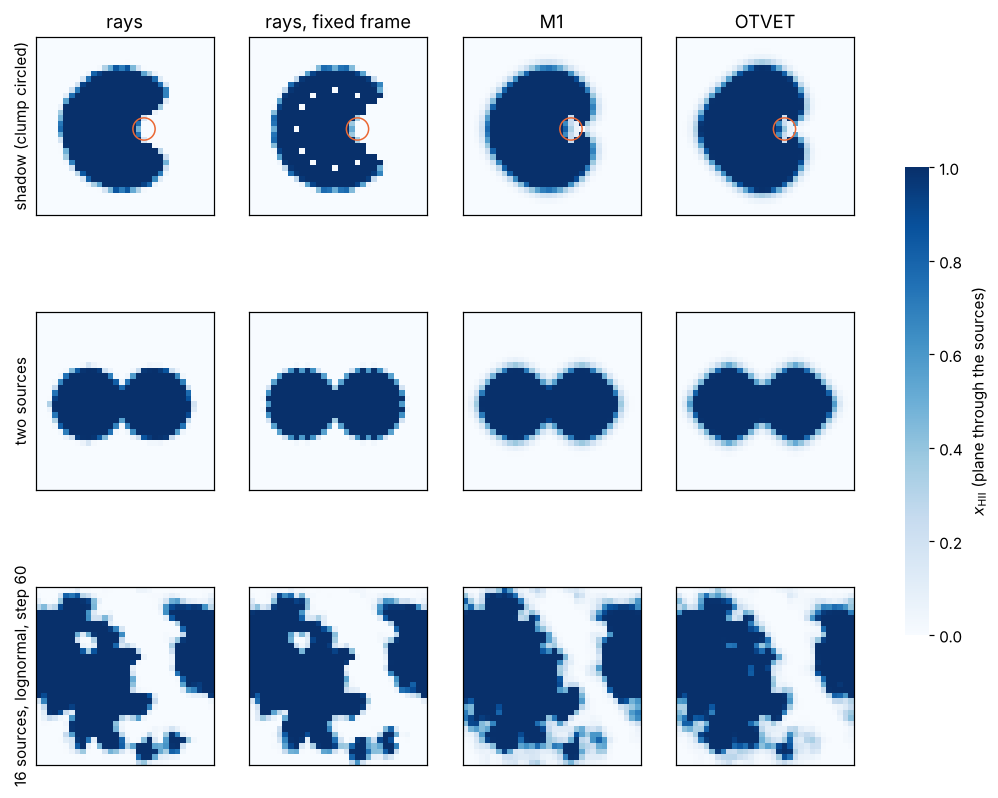
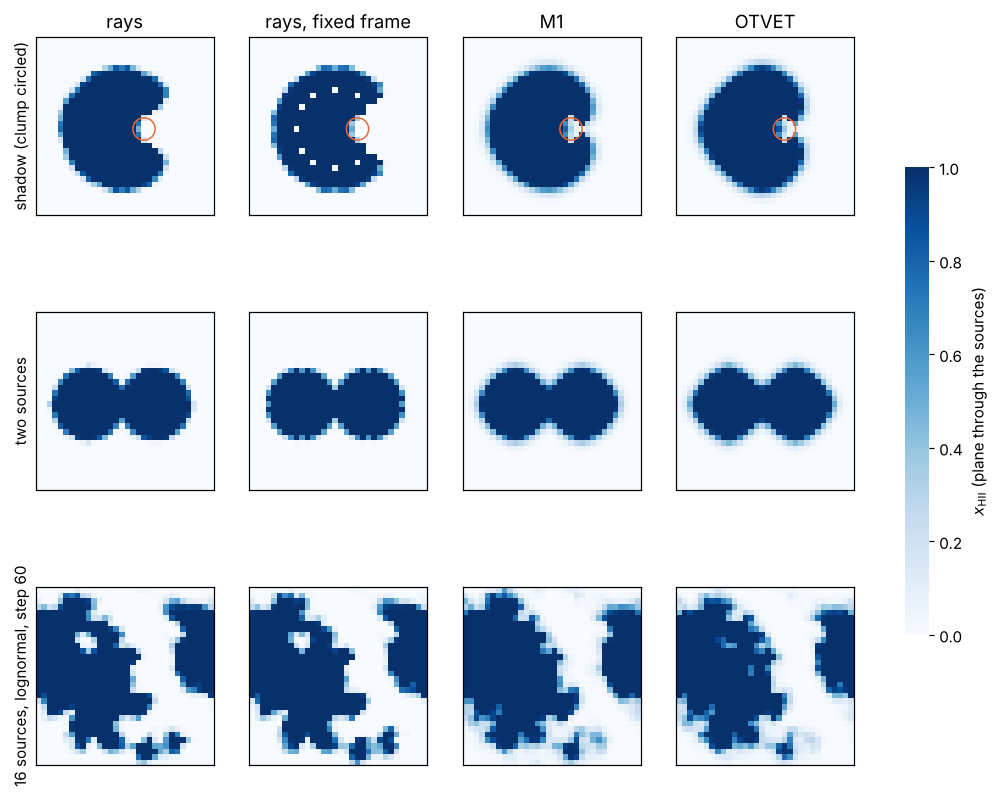
moment_inject = 1 the default (user decision); rt_moments §4 rerun with it
The moment RT now injects a substep's source and recombination photons
after the transport by default, as production already did. The tests that
set 1 explicitly now cover 0 (restart_smoke_m1_inject0, the AMReX cases
m1inj0 and m1recombinj0); make_production.py writes the key explicitly.
docs/rt_moments.md §4 rerun: the injection order is about half of the
moment fronts' early lead over the finite-c solution (+61% -> +36% at
c_hat t = 2 cells) and of their box excess over the rays (M1 16% -> 6%).

Claude-Session: https://claude.ai/code/session_01VFiZmTaqaTXFEYatZN1PCd

diff --git a/tools/production/make_production.py b/tools/production/make_production.py
@@ -133,8 +133,9 @@ def main():
                     help="M1/OTVET (rt_method set by tools/hyak/rt_methods_runs.sh; ignored by "
                          "the rays): 1 = source and recombination photons enter the moments "
                          "after the transport, so they are absorbed in their own cell first "
-                         "(moment_inject; default 1, docs/rt_moments.md); 0: before, the original "
-                         "order, which leaves dense source cells neutral")
+                         "(moment_inject; default 1, also the code's default since 2026-11-10, "
+                         "docs/rt_moments.md); 0: before, the first implementation, which "
+                         "leaves dense source cells neutral")
     ap.add_argument("--diag-dz", type=float, default=0.0,
                     help="on-the-fly E(k) of the gas velocity and the T-Delta histogram every dz "
                          "(diag_dz, Diag/; plane-parallel unsplit runs on the host grids; 0: off)")
@@ -376,8 +377,7 @@ def main():
             lines.append(f"recomb_rad_cell_onspot = {a.recomb_rad_cell_onspot:g}")
     elif a.recomb_rad and a.recomb_case == "B":
         sys.exit("--recomb-rad 1 needs --recomb-case A (case B already absorbs them on the spot)")
-    if a.moment_inject:
-        lines.append("moment_inject = 1")
+    lines.append(f"moment_inject = {a.moment_inject}")
     if a.ra_max > 0:
         lines.append(f"ra_max = {a.ra_max:g}")
     lines.append(f"redshift_per_distance = {a.redshift_per_distance}")

diff --git a/include/radray/config.hpp b/include/radray/config.hpp
@@ -291,15 +291,17 @@ struct Config {
   //   otvet_tensor: how the OTVET tensor is summed over the sources:
   //                0 = auto, 1 = direct sum, 2 = FFT convolution;
   //   moment_inject: when the source and recombination photons of an RT
-  //                substep enter the moments: 0 = before the transport
-  //                (default; a source cell's photons are mostly moved to its
-  //                neighbours before photo_cell absorbs anything), 1 = after
-  //                it, so they are absorbed in their own cell first, as the
-  //                rays' photons are (docs/rt_moments.md).
+  //                substep enter the moments: 1 = after the transport
+  //                (default since 2026-11-10, user decision), so they are
+  //                absorbed in their own cell first, as the rays' photons
+  //                are; 0 = before it (the first implementation: a source
+  //                cell's photons are mostly moved to its neighbours before
+  //                photo_cell absorbs anything, and dense source cells stay
+  //                neutral; docs/rt_moments.md section 5a).
   RTMethod rt_method = RTMethod::Rays;
   int moment_nsub = 4;
   int otvet_tensor = 0;
-  int moment_inject = 0;
+  int moment_inject = 1;
   // Alternative OTVET tensors (otvet_closure.hpp, docs/otvet_closure.md;
   // set_otvet_closure_param). New options, not in the original; the
   // defaults keep the thin minimum-image tensor:

diff --git a/tools/analysis/rt_methods.py b/tools/analysis/rt_methods.py
@@ -14,6 +14,8 @@ emission are the same, and the gaps between them leave grid-aligned holes in
 the fronts at large radius. The fixed frame is run as well ("rays, fixed
 frame") to show what the rotation changes; the moment methods have no rays
 and ignore the key.
+The moment methods run with the default moment_inject = 1 (the source
+photons are injected after the transport, docs/rt_moments.md section 5a).
 
   ifront   one source (Luv = 8e28) in the centre, 15 steps of da = 2e-4:
            the I-front radius from the ionised volume, against the finite-c

diff --git a/src/rt_moments.cpp b/src/rt_moments.cpp
@@ -120,7 +120,7 @@ std::string rt_method_summary(const Config& c) {
     if (c.rt_method == RTMethod::OTVET)
       s += std::string(", otvet_tensor = ") +
            (c.otvet_tensor == 0 ? "auto" : c.otvet_tensor == 1 ? "direct" : "fft");
-    if (c.moment_inject) s += ", moment_inject = 1";
+    if (!c.moment_inject) s += ", moment_inject = 0";
     const std::string cl = otvet_closure_summary(c);  // otvet_closure.hpp
     if (!cl.empty()) s += ", " + cl;
     s += ")";

diff --git a/docs/STATUS.md b/docs/STATUS.md
@@ -1,6 +1,6 @@
 # Project status
 
-*Last updated: 2026-11-10: the rays of the moment-RT comparison (`docs/rt_moments.md` §4) rerun with the frame rotation `ray_rotate = 3`, the numbers refreshed for B17 and P11, and why the moment fronts run ahead early (branch `claude/trusting-feynman-2w7i8q`, below). Before that, 2026-11-09: repository cleanup (reading guides at the top of the RT sources, comments in the under-documented files, `docs/REVIEW_GUIDE.md`, the CMake configure without FFTW fixed, the stray klone build logs untracked; branch `claude/kind-cerf-9y6xp2`, below). Before that, 2026-11-08: `otvet_background = ga01`, the isotropic background of Gnedin & Abel 2001 as a second moment field, implemented and validated at 256³: thin OTVET bit for bit before overlap, then it removes thin OTVET's P_Γ excess, but only by z ≈ 4.9, about 1 in z later than the split and the cone (`docs/otvet_background.md` §9, branch `otvet-background`, below). Before that, 2026-11-07: the design and the implementation. Before that, 2026-11-06: why the closures do not change the mean Γ_HI after overlap: the photon sink by density of the 512³ suite, the single-absorber test (M1 2×, the cone 1.4× the rays' recombinations in a resolved absorber) and the 256³ P11 on/off set (P11 a 10–25 % effect on the IGM for every method, the closure difference 2–3 %) (`docs/absorbers_closures.md`, branch `absorbers-wu21`, PRs #27 and #29, below). Also 2026-11-06: the τ_eff distribution over 50 Mpc/h in every run (against z, λ_mfp, raw and normalised to the mean flux) and 21cmFAST's excursion set against the RT methods, the paper's Figures 7 and 8 (`docs/taueff_21cmfast.md`, branch `taueff-21cmfast`, PR #28, below). Before that, 2026-11-02: the user's decisions on `pm_level_subcycle` (4 FFTs, no corrector until Z1) and the corrector diagnostic. Also 2026-10-31: the AMReX RT across levels rank-independent through a regrid that rechops a refined level (branch `claude/elegant-volta-wekhho`, on `stage-g-subcycle`, below). 2026-10-31: Stage G follow-up, the refined levels' gravity on their own timescale, `pm_level_subcycle` (branch `stage-g-subcycle`, `docs/stage_g.md` §6, below); the user's decision of rectangular zoom levels (`docs/PLAN.md`). Before that, 2026-10-29: the AMReX RT's checkpoints with a partial refined region made rank-independent and its restarts through an RT step bit-identical (the refined levels' ray order, `dr`, the uninitialised `TF`; checkpoint version 9; branch `claude/modest-mendel-8k29sb`, below); the user's zoom decisions (about 10 rays per fine cell; fine-level gravity on its own timescale, `docs/PLAN.md`). Also 2026-10-29: linear growth of DM and gas from MUSIC ICs against CAMB, and `recfast_table` (branch `music-linear-growth`, below). Also 2026-10-28: `photon_consume_dense` (P11) part of `legacy_physics = 0` (branch `photon-consume-legacy`, below). Also 2026-10-28: the plane-parallel turn-on step, `plane_turnon_cfl` (branch `plane-turnon-step`, below). Also 2026-10-29: rank 0 without the full grid copy under `amrex_state = 1` (branch `rank0-no-mirror`, below). Before that, 2026-10-29: the plane-parallel problems' floor 0.1 K (below); the preheating floor `T_min`/`z_floor` extended to the hydro (below); `photon_consume_dense = 1` confirmed for the plane-parallel problems; PR #9 merged; the runtime cosmology, z_init and the preheating floor (PR #8, branch `claude/vibrant-albattani-8xnpwa`, below) merged with `main`. Before that, 2026-10-27: the unsplit hydro's over-cooling of the cold IGM found and fixed behind `dual_e_self` (U7, branch `claude/beautiful-dirac-8omh78`, below); the plane-parallel RT-domain mode (rays and the sweep transport), its tests, the T4 step caps and the C1 ladder scripts (branch `claude/eager-sagan-h6a0tu`, below). Before that, 2026-10-26: `thermal_init = recfast` and `thermal_floor` (below); the thermal history before heating checked against RECFAST (T1, below); X-ray preheating behind `xray_heating` (branch `xray-preheating`, below); `gammaHI_avg` for the moment RT on `rt_backend = amrex` (branch `gamma-avg-amrex`, below); the Fortran split for a public repository (below). Before that, 2026-10-22/24: Stage G, the level Poisson solve on the hierarchy, `pm_level_solve` (branch `claude/modest-mendel-8k29sb`, `docs/stage_g.md`, below; the klone profile 2026-10-24). Before that, 2026-10-23: zoom ICs from MUSIC, thread D (branch `zoom-ics`, below); MUSIC installed on klone (below). Before that, 2026-10-22: the uniform 512³ suite of every RT method run and reported (`docs/rt_suite_512.md`; the Sheth–Tormen sources, f6 = 0.11, the continuous ĉ schedule `c_reduced_schedule_interp`; branch `rt-suite-512`, below). Before that, 2026-10-22: the refined 512³ run against its control (branch `amr512-analysis`, below); the zoom-in turbulence plan and a PR audit (below). Before that, 2026-10-18: the substep-averaged Γ_HI (`gammaHI_avg`), the launch script of the uniform 512³ suite (`tools/hyak/rt_suite512.sh`) and the suite's decisions; before that the assessment and plan for the unified RT-methods suite (`docs/PLAN.md`, "Unified RT-methods suite", with the thread prompts; branch `claude/sleepy-feynman-dx6ic2`, below). Before that, 2026-10-17: ĉ by ionisation state, `c_reduced_schedule` (branch `c-schedule`, below); a falling escape fraction (branch `fesc-evolution`, PR #45, below). Before that, 2026-10-14 (evening): Stage F3, the 8 sources of `uniform_8src` with one and two refined levels, three fixes of the RT across levels (branch `stage-f3-8src`, below). Before that, 2026-10-15: Stage F3, the RT across refinement levels (branch `stage-f3`, below). Before that, 2026-10-14: Stage F decisions, B17 under `legacy_physics = 0`, Stage F1 (the gas hierarchy) and F2 (refined hydro validated, `cool_suppress_overdensity`, the star-formation sink), `srun --mpi=pmix` (branch `stage-f-decisions`, PR #40, below). Also 2026-10-13: Stage E2 on klone, the PM backend validated and scaled (PR #38, below). Before that, 2026-10-13: Stage E4, load balancing (`amrex_balance = 1`) and production runs on the backend (`make_production.py --backend amrex`, `reion_production.slurm` over several nodes), 512³ on 5 nodes, the SIGTERM backtraces (branch `stage-e-balance`, PR #37, below); Stage E3, the state on the levels, `amrex_state = 1` (PR #34 merged, `docs/stage_e_state.md`, below): 512³ runs on one node, bitwise identical to the 2-node host-state run; PR #32 (Stage E1 + the klone runs) and PR #33 (Stage E2) merged into `main`. Also 2026-10-13: OTVET closures merged (PR #35); faster OTVET tensor (branch `otvet-fft-speed`); OTVET closures implemented behind flags (`otvet_closure`, `otvet_split`) and validated at 256³ and 512³: the split and the cone remove OTVET's after-overlap P_Γ excess, and the cone also matches the rays' overlap era best; 512³ runs done (branch `otvet-closure`, PR #35, below, `docs/otvet_closure.md`). Also 2026-10-13: Stage E3, the state on the levels, `amrex_state = 1` (branch `stage-e-state`, `docs/stage_e_state.md`, below): 512³ runs on one node; PR #32 (Stage E1 + the klone runs) and PR #33 (Stage E2) merged into `main`. Before that, 2026-10-12 (evening): Stage E2, the PM gravity on AMReX behind `pm_backend = amrex` (branch `stage-e-pm`, below, `docs/stage_e_pm.md`); Stage E prerequisites on klone, the AMReX backend built, tested (81/81) and timed at 256³ and 512³ on 1–4 nodes, and the multi-node hydro slowdown found to be the UCX transport (`UCX_RNDV_THRESH=8m UCX_ZCOPY_THRESH=inf` in `env.sh`, also 10–15 % off the RT), box size 32³ (branch `claude/clever-fermi-aa4km4`, `docs/stage_d.md` §4.4, `docs/stage_e_hydro.md` §4.1/§5, below); Stage E1, the unsplit hydro on AMReX, `hydro_backend = amrex`, bitwise identical to the serial step (`docs/stage_e_hydro.md`); M1's neutral source cells, `moment_inject` (branch `m1-clumps`, below); what's next (Stage E, MPI, then AMR), the production default back to case B, the Hyak module-load fix (branch `claude/clever-fermi-aa4km4`, below); `pm_refine` (PM mesh finer than the gas grid), FoF cadence option and the Sheth–Tormen abundance matching (branch `pm-refine`, below); the nightly workflow fixed (branch `claude/new-session-knktw3`, below). Also 2026-10-12: rays vs M1 vs OTVET at 40 Mpc/h, 512³ with case A + recombination radiation, and the Γ_HI comparison (branch `rt-methods-512`, `docs/rt_methods_512.md`). Also 2026-10-12: the stored RT references that differ on klone are skipped there (label `platform_ref`); OTVET kept as implemented. Also 2026-10-12: rays crossing k cells per substep, `rt_cells_per_substep` with `photon_conserve` (B17) and `ray_deposit = exposure` (branch `rt-multicell`, PR #27, `docs/rt_multicell.md`, merged into `main`). Before that, 2026-10-11: production runs use `hydro_scheme = unsplit` and `redshift_per_distance = 1` (user decisions, now the `make_production.py` defaults); Stage D, the ray-tracing RT on AMReX (branch `stage-d-amrex`, PR #24, `docs/stage_d.md`, merged into `main`); the 256³ production run (branch `production-256`, PR #23, below) and slab-only movie frames `movie_slab`, the movie-reader speed fix and `POST=sbatch` (branch `movie-slab`, merged into `main`). Before that, 2026-10-10: `redshift_per_distance` (branch `redshift-per-distance`, merged); IGM diagnostics (branch `igm-diagnostics`, merged); recombination radiation with the moment RT and helium lines (branch `recomb-moments`, merged into `main`); status assessment and the Hyak production and Stage D prompts ("Threads to launch"); B16 fix `ray_rotate` merged into `main` (branch `claude/exciting-clarke-zn62ih`; production uses `ray_rotate = 3`). The same day: the framework-spike Hyak CPU and GPU benchmarks (PR #19, branch `spike-hyak-bench`: AMReX approved, no ACCESS proposal for now), case A recombination and recombination radiation (branch `recomb-radiation`), and moment RT (M1, OTVET) with its 256³ klone comparison (branch `claude/elegant-bell-rqd3l1`). Before that, 2026-10-09: the survey (PR #16), `hyak-setup` (PR #17), `movies` (PR #12) and `production-run` (PR #7).*
+*Last updated: 2026-11-10: `moment_inject = 1` the default (user decision); the rays of the moment-RT comparison (`docs/rt_moments.md` §4) rerun with the frame rotation `ray_rotate = 3`, the numbers refreshed for B17, P11 and the new injection default, and why the moment fronts run ahead early (branch `claude/trusting-feynman-2w7i8q`, below). Before that, 2026-11-09: repository cleanup (reading guides at the top of the RT sources, comments in the under-documented files, `docs/REVIEW_GUIDE.md`, the CMake configure without FFTW fixed, the stray klone build logs untracked; branch `claude/kind-cerf-9y6xp2`, below). Before that, 2026-11-08: `otvet_background = ga01`, the isotropic background of Gnedin & Abel 2001 as a second moment field, implemented and validated at 256³: thin OTVET bit for bit before overlap, then it removes thin OTVET's P_Γ excess, but only by z ≈ 4.9, about 1 in z later than the split and the cone (`docs/otvet_background.md` §9, branch `otvet-background`, below). Before that, 2026-11-07: the design and the implementation. Before that, 2026-11-06: why the closures do not change the mean Γ_HI after overlap: the photon sink by density of the 512³ suite, the single-absorber test (M1 2×, the cone 1.4× the rays' recombinations in a resolved absorber) and the 256³ P11 on/off set (P11 a 10–25 % effect on the IGM for every method, the closure difference 2–3 %) (`docs/absorbers_closures.md`, branch `absorbers-wu21`, PRs #27 and #29, below). Also 2026-11-06: the τ_eff distribution over 50 Mpc/h in every run (against z, λ_mfp, raw and normalised to the mean flux) and 21cmFAST's excursion set against the RT methods, the paper's Figures 7 and 8 (`docs/taueff_21cmfast.md`, branch `taueff-21cmfast`, PR #28, below). Before that, 2026-11-02: the user's decisions on `pm_level_subcycle` (4 FFTs, no corrector until Z1) and the corrector diagnostic. Also 2026-10-31: the AMReX RT across levels rank-independent through a regrid that rechops a refined level (branch `claude/elegant-volta-wekhho`, on `stage-g-subcycle`, below). 2026-10-31: Stage G follow-up, the refined levels' gravity on their own timescale, `pm_level_subcycle` (branch `stage-g-subcycle`, `docs/stage_g.md` §6, below); the user's decision of rectangular zoom levels (`docs/PLAN.md`). Before that, 2026-10-29: the AMReX RT's checkpoints with a partial refined region made rank-independent and its restarts through an RT step bit-identical (the refined levels' ray order, `dr`, the uninitialised `TF`; checkpoint version 9; branch `claude/modest-mendel-8k29sb`, below); the user's zoom decisions (about 10 rays per fine cell; fine-level gravity on its own timescale, `docs/PLAN.md`). Also 2026-10-29: linear growth of DM and gas from MUSIC ICs against CAMB, and `recfast_table` (branch `music-linear-growth`, below). Also 2026-10-28: `photon_consume_dense` (P11) part of `legacy_physics = 0` (branch `photon-consume-legacy`, below). Also 2026-10-28: the plane-parallel turn-on step, `plane_turnon_cfl` (branch `plane-turnon-step`, below). Also 2026-10-29: rank 0 without the full grid copy under `amrex_state = 1` (branch `rank0-no-mirror`, below). Before that, 2026-10-29: the plane-parallel problems' floor 0.1 K (below); the preheating floor `T_min`/`z_floor` extended to the hydro (below); `photon_consume_dense = 1` confirmed for the plane-parallel problems; PR #9 merged; the runtime cosmology, z_init and the preheating floor (PR #8, branch `claude/vibrant-albattani-8xnpwa`, below) merged with `main`. Before that, 2026-10-27: the unsplit hydro's over-cooling of the cold IGM found and fixed behind `dual_e_self` (U7, branch `claude/beautiful-dirac-8omh78`, below); the plane-parallel RT-domain mode (rays and the sweep transport), its tests, the T4 step caps and the C1 ladder scripts (branch `claude/eager-sagan-h6a0tu`, below). Before that, 2026-10-26: `thermal_init = recfast` and `thermal_floor` (below); the thermal history before heating checked against RECFAST (T1, below); X-ray preheating behind `xray_heating` (branch `xray-preheating`, below); `gammaHI_avg` for the moment RT on `rt_backend = amrex` (branch `gamma-avg-amrex`, below); the Fortran split for a public repository (below). Before that, 2026-10-22/24: Stage G, the level Poisson solve on the hierarchy, `pm_level_solve` (branch `claude/modest-mendel-8k29sb`, `docs/stage_g.md`, below; the klone profile 2026-10-24). Before that, 2026-10-23: zoom ICs from MUSIC, thread D (branch `zoom-ics`, below); MUSIC installed on klone (below). Before that, 2026-10-22: the uniform 512³ suite of every RT method run and reported (`docs/rt_suite_512.md`; the Sheth–Tormen sources, f6 = 0.11, the continuous ĉ schedule `c_reduced_schedule_interp`; branch `rt-suite-512`, below). Before that, 2026-10-22: the refined 512³ run against its control (branch `amr512-analysis`, below); the zoom-in turbulence plan and a PR audit (below). Before that, 2026-10-18: the substep-averaged Γ_HI (`gammaHI_avg`), the launch script of the uniform 512³ suite (`tools/hyak/rt_suite512.sh`) and the suite's decisions; before that the assessment and plan for the unified RT-methods suite (`docs/PLAN.md`, "Unified RT-methods suite", with the thread prompts; branch `claude/sleepy-feynman-dx6ic2`, below). Before that, 2026-10-17: ĉ by ionisation state, `c_reduced_schedule` (branch `c-schedule`, below); a falling escape fraction (branch `fesc-evolution`, PR #45, below). Before that, 2026-10-14 (evening): Stage F3, the 8 sources of `uniform_8src` with one and two refined levels, three fixes of the RT across levels (branch `stage-f3-8src`, below). Before that, 2026-10-15: Stage F3, the RT across refinement levels (branch `stage-f3`, below). Before that, 2026-10-14: Stage F decisions, B17 under `legacy_physics = 0`, Stage F1 (the gas hierarchy) and F2 (refined hydro validated, `cool_suppress_overdensity`, the star-formation sink), `srun --mpi=pmix` (branch `stage-f-decisions`, PR #40, below). Also 2026-10-13: Stage E2 on klone, the PM backend validated and scaled (PR #38, below). Before that, 2026-10-13: Stage E4, load balancing (`amrex_balance = 1`) and production runs on the backend (`make_production.py --backend amrex`, `reion_production.slurm` over several nodes), 512³ on 5 nodes, the SIGTERM backtraces (branch `stage-e-balance`, PR #37, below); Stage E3, the state on the levels, `amrex_state = 1` (PR #34 merged, `docs/stage_e_state.md`, below): 512³ runs on one node, bitwise identical to the 2-node host-state run; PR #32 (Stage E1 + the klone runs) and PR #33 (Stage E2) merged into `main`. Also 2026-10-13: OTVET closures merged (PR #35); faster OTVET tensor (branch `otvet-fft-speed`); OTVET closures implemented behind flags (`otvet_closure`, `otvet_split`) and validated at 256³ and 512³: the split and the cone remove OTVET's after-overlap P_Γ excess, and the cone also matches the rays' overlap era best; 512³ runs done (branch `otvet-closure`, PR #35, below, `docs/otvet_closure.md`). Also 2026-10-13: Stage E3, the state on the levels, `amrex_state = 1` (branch `stage-e-state`, `docs/stage_e_state.md`, below): 512³ runs on one node; PR #32 (Stage E1 + the klone runs) and PR #33 (Stage E2) merged into `main`. Before that, 2026-10-12 (evening): Stage E2, the PM gravity on AMReX behind `pm_backend = amrex` (branch `stage-e-pm`, below, `docs/stage_e_pm.md`); Stage E prerequisites on klone, the AMReX backend built, tested (81/81) and timed at 256³ and 512³ on 1–4 nodes, and the multi-node hydro slowdown found to be the UCX transport (`UCX_RNDV_THRESH=8m UCX_ZCOPY_THRESH=inf` in `env.sh`, also 10–15 % off the RT), box size 32³ (branch `claude/clever-fermi-aa4km4`, `docs/stage_d.md` §4.4, `docs/stage_e_hydro.md` §4.1/§5, below); Stage E1, the unsplit hydro on AMReX, `hydro_backend = amrex`, bitwise identical to the serial step (`docs/stage_e_hydro.md`); M1's neutral source cells, `moment_inject` (branch `m1-clumps`, below); what's next (Stage E, MPI, then AMR), the production default back to case B, the Hyak module-load fix (branch `claude/clever-fermi-aa4km4`, below); `pm_refine` (PM mesh finer than the gas grid), FoF cadence option and the Sheth–Tormen abundance matching (branch `pm-refine`, below); the nightly workflow fixed (branch `claude/new-session-knktw3`, below). Also 2026-10-12: rays vs M1 vs OTVET at 40 Mpc/h, 512³ with case A + recombination radiation, and the Γ_HI comparison (branch `rt-methods-512`, `docs/rt_methods_512.md`). Also 2026-10-12: the stored RT references that differ on klone are skipped there (label `platform_ref`); OTVET kept as implemented. Also 2026-10-12: rays crossing k cells per substep, `rt_cells_per_substep` with `photon_conserve` (B17) and `ray_deposit = exposure` (branch `rt-multicell`, PR #27, `docs/rt_multicell.md`, merged into `main`). Before that, 2026-10-11: production runs use `hydro_scheme = unsplit` and `redshift_per_distance = 1` (user decisions, now the `make_production.py` defaults); Stage D, the ray-tracing RT on AMReX (branch `stage-d-amrex`, PR #24, `docs/stage_d.md`, merged into `main`); the 256³ production run (branch `production-256`, PR #23, below) and slab-only movie frames `movie_slab`, the movie-reader speed fix and `POST=sbatch` (branch `movie-slab`, merged into `main`). Before that, 2026-10-10: `redshift_per_distance` (branch `redshift-per-distance`, merged); IGM diagnostics (branch `igm-diagnostics`, merged); recombination radiation with the moment RT and helium lines (branch `recomb-moments`, merged into `main`); status assessment and the Hyak production and Stage D prompts ("Threads to launch"); B16 fix `ray_rotate` merged into `main` (branch `claude/exciting-clarke-zn62ih`; production uses `ray_rotate = 3`). The same day: the framework-spike Hyak CPU and GPU benchmarks (PR #19, branch `spike-hyak-bench`: AMReX approved, no ACCESS proposal for now), case A recombination and recombination radiation (branch `recomb-radiation`), and moment RT (M1, OTVET) with its 256³ klone comparison (branch `claude/elegant-bell-rqd3l1`). Before that, 2026-10-09: the survey (PR #16), `hyak-setup` (PR #17), `movies` (PR #12) and `production-run` (PR #7).*
 
 ## Index by topic (the sections below, newest first within a topic)
 
@@ -14,7 +14,19 @@ The sections are in the order they were written. By topic:
 - **Production runs, movies, diagnostics:** the 256³ production run (2026-10-10, `production-256`); `movie_slab` (2026-10-11); `redshift_per_distance` (2026-10-10); IGM diagnostics (2026-10-10); `fesc-z` (2026-10-11); measured production costs (PR #10); the nightly workflow (2026-10-12).
 - **Repository:** the Fortran split for a public repository (2026-10-26, `fortran-split`); branches and PRs merged on 2026-10-09; "Threads to launch"; Next; Open questions for the user; Known limits.
 
-## Done 2026-11-10: the moment-RT comparison with rotated rays (branch `claude/trusting-feynman-2w7i8q`)
+## Done 2026-11-10: the moment-RT comparison with rotated rays, `moment_inject = 1` the default (branch `claude/trusting-feynman-2w7i8q`)
+
+* **`moment_inject = 1` is the default** (user decision, `docs/PLAN.md`):
+  the moment RT injects a substep's source and recombination photons
+  after the transport (`docs/rt_moments.md` §5a). Production already used
+  it.
+  - The tests that set 1 explicitly now test 0: `restart_smoke_m1_inject0`,
+    and the AMReX cases `m1inj0` and `m1recombinj0` (not run here, the
+    container has no AMReX).
+  - `make_production.py` writes the key explicitly.
+  - Checkpoints do not store it, so a run started with the old default
+    needs `moment_inject = 0` in its `params.txt` before a restart.
+  - The rays and every legacy comparison are unaffected.
 
 * **Why:** `tools/analysis/rt_methods.py` (the I-front, shadow, two-source
   and 16-source comparisons of `docs/rt_moments.md` §4) ran the rays with
@@ -35,15 +47,21 @@ The sections are in the order they were written. By topic:
     0.1, which is the rays' sampling floor against the moments' 20–23 %.
 * **Stale numbers:** the stored §4 numbers predated B17 and P11 joining
   `legacy_physics = 0`. With both off the script reproduces the old table
-  exactly. With them, the moment methods are 16 % (M1) and 11 % (OTVET)
-  above the rays in the box at step 60, against 8 % and 5 % before.
-* **Why the moment fronts run ahead early** (user question): the GLF
-  scheme's numerical diffusion.
-  - At ĉt = 2 cells a sixth of the moment methods' ionised volume lies
-    outside the light cone: the 4 subcycles of a substep reach 4 cells.
-  - At every time fewer photons are in flight than with the rays: 0.42 of
-    the rays' at ĉt = 2, 0.66 at ĉt = 6, 0.83–0.91 at ĉt = 30. They are
-    absorbed sooner, across a thicker front.
+  exactly. In the box at step 60, M1 and OTVET are above the rays in x_HII
+  by:
+  - 8 % and 5 % in the old table;
+  - 16 % and 11 % with B17 and P11 on, inject 0;
+  - 6 % and 3 % with B17 and P11 on, inject 1.
+* **Why the moment fronts run ahead early** (user question): fewer
+  photons are in flight than with the rays, so more are absorbed. There
+  are two causes.
+  - **The injection order:** with inject 0, the I-front error at ĉt = 2
+    cells is +61 %, and 0.42 of the rays' photons are in flight. With
+    inject 1 it is +36 %, with 0.65 in flight.
+  - **The GLF scheme's numerical diffusion:** at ĉt = 2 a tenth of the
+    ionised volume (inject 1; a sixth with 0) lies outside the light cone,
+    since the 4 subcycles of a substep reach 4 cells. Later the front is
+    about 1.5× thicker than the rays'.
 * **Literature for a shadow test (user question):** listed from memory in
   `docs/rt_moments.md` §5. Our test has no published counterpart. Iliev
   et al. 2006 Test 3 would need plane-parallel sources in the moment RT,

diff --git a/docs/rt_moments.md b/docs/rt_moments.md
@@ -18,7 +18,7 @@ radhydro   <problem> <out> --set rt_method=otvet
 | `rt_method` | `rays` (default), `m1`, `otvet` | radiative transfer method |
 | `moment_nsub` | integer ≥ 3, default 4 | transport subcycles per RT substep (Courant number 1/`moment_nsub`) |
 | `otvet_tensor` | `auto` (default), `direct`, `fft` | how the OTVET tensor is summed over the sources |
-| `moment_inject` | `0` (default), `1` | when a substep's source and recombination photons enter the moments: 0 before the transport (the first implementation), 1 after it, so they are absorbed in their own cell first (§5a; `make_production.py` writes 1) |
+| `moment_inject` | `1` (default since 2026-11-10), `0` | when a substep's source and recombination photons enter the moments: 1 after the transport, so they are absorbed in their own cell first; 0 before it (the first implementation, which leaves dense source cells neutral) (§5a) |
 
 All other parameters keep their meaning. `c_reduced` sets the light speed of
 the moment solver too. `legacy_physics` selects the atomic physics, as with
@@ -135,19 +135,27 @@ Produced by `tools/analysis/rt_methods.py build/rt_driver WORKDIR --threads 4`,
 which writes `docs/figures/rt_methods_ifront.png`, `rt_methods_maps.png` and
 `rt_methods.txt`. All runs use N = 32, c_reduced = 0.1 and
 legacy_rt = legacy_physics = 0 (with B17 `photon_conserve` and P11
-`photon_consume_dense`).
+`photon_consume_dense`). The moment methods use the default
+`moment_inject = 1` (§5a).
 
-*Rerun 2026-11-10 with two changes.* (1) The rays now rotate their HEALPix
-frame for every source and RT substep, `ray_rotate = 3`, as every production
-run since 2026-10-10 does (the B16 fix, `docs/port_notes.md`). The rays with
-the original fixed frame (`ray_rotate = 0`) are kept as a fourth column,
-"rays, fixed frame" (`rays0` in `rt_methods.txt`). (2) Since the first
-version of this section (2026-10-10), `legacy_physics = 0` has gained B17
-and P11, which changes every method's numbers. With `photon_conserve = 0
-photon_consume_dense = 0` the script's runs reproduce the old table exactly
-(the box at step 60: M1 0.5692, the fixed-frame rays 0.5252). Together they
-lower the box's x_HII at step 60 from 0.525 to 0.468 for the rays and from
-0.569 to 0.545 for M1 (for M1 alone: B17 gives 0.553, P11 0.560).
+*Rerun 2026-11-10 with three changes:*
+1. **The rays rotate their HEALPix frame** for every source and RT substep,
+   `ray_rotate = 3`, as every production run since 2026-10-10 does (the
+   B16 fix, `docs/port_notes.md`). The rays with the original fixed frame
+   (`ray_rotate = 0`) are kept as a fourth column, "rays, fixed frame"
+   (`rays0` in `rt_methods.txt`).
+2. **The moments inject after the transport,** `moment_inject = 1`, the
+   default since 2026-11-10. The numbers with the old order, 0, are quoted
+   below as "inject 0".
+3. **B17 and P11.** Since the first version of this section (2026-10-10),
+   `legacy_physics = 0` has gained B17 and P11, which changes every
+   method's numbers.
+   - With `photon_conserve = 0 photon_consume_dense = 0` (and
+     `moment_inject = 0`) the script's runs reproduce the old table exactly
+     (the box at step 60: M1 0.5692, the fixed-frame rays 0.5252).
+   - Together B17 and P11 lower the box's x_HII at step 60 from 0.525 to
+     0.468 for the rays and from 0.569 to 0.545 for M1 with inject 0. For
+     that M1 run alone: B17 gives 0.553, P11 0.560.
 
 ![I-front](figures/rt_methods_ifront.png)
 
@@ -157,44 +165,49 @@ lower the box's x_HII at step 60 from 0.525 to 0.468 for the rays and from
 |---|---|---|---|---|
 | rays | +1.9% | +3.8% | +1.7% | +0.2% |
 | rays, fixed frame | −1.2% | +3.1% | +1.4% | +0.1% |
-| M1 | +61% | +15% | +7.4% | +1.7% |
-| OTVET | +61% | +14% | +6.0% | +0.8% |
+| M1 | +36% | +6.5% | +3.0% | +0.3% |
+| OTVET | +36% | +4.6% | +1.6% | −0.6% |
+| M1, inject 0 | +61% | +15% | +7.4% | +1.7% |
+| OTVET, inject 0 | +61% | +14% | +6.0% | +0.8% |
 
 The rotation hardly changes the rays' mean radius, but it halves the
 spread of the front over directions: the radius of the partly ionised cells
 at ĉt = 30 is 7.99 ± 0.17 cells with the rotation and 8.03 ± 0.32 without
-(M1 7.99 ± 0.20, OTVET 7.93 ± 0.28).
+(M1 7.95 ± 0.21, OTVET 7.84 ± 0.29).
 
 **Why the moment fronts run ahead early.** The radius is taken from the
 ionised volume. While the recombinations are negligible, that volume
 counts the photons absorbed, which are the photons emitted minus those still
-in flight. The first-order scheme smears the radiation over a few cells:
-the numerical diffusion of upwind at C = 1/4 is σ ≈ 2 cells after 6 substeps.
-So part of the photons reaches neutral gas sooner than ĉ allows, and
-fewer are in flight than with the rays (`rt_methods.txt`, "I-front ahead
-of the finite-c solution"):
+in flight. Fewer photons in flight than with the rays means a larger volume
+(`rt_methods.txt`, "I-front ahead of the finite-c solution"):
 
-| ĉt [cells] | photons in flight, M1 / OTVET (rays = 1) | ionised volume beyond r = ĉt + 0.87, M1 / OTVET |
-|---|---|---|
-| 2 | 0.42 / 0.43 | 17% / 19% |
-| 4 | 0.66 / 0.69 | 1.8% / 2.2% |
-| 6 | 0.66 / 0.70 | 0.0% / 0.1% |
-| 10 | 0.74 / 0.79 | 0 |
-| 30 | 0.83 / 0.91 | 0 |
+| ĉt [cells] | photons in flight, M1 / OTVET (rays = 1) | inject 0 | ionised volume beyond r = ĉt + 0.87, M1 / OTVET | inject 0 |
+|---|---|---|---|---|
+| 2 | 0.65 / 0.67 | 0.42 / 0.43 | 11% / 13% | 17% / 19% |
+| 4 | 0.88 / 0.89 | 0.66 / 0.69 | 0.5% / 0.6% | 1.8% / 2.2% |
+| 6 | 0.87 / 0.91 | 0.66 / 0.70 | 0.0% / 0.0% | 0.0% / 0.1% |
+| 10 | 0.90 / 0.96 | 0.74 / 0.79 | 0 | 0 |
+| 30 | 0.95 / 1.03 | 0.83 / 0.91 | 0 | 0 |
 
-- **First substeps:** the photons move faster than light. The `moment_nsub`
-  = 4 subcycles of a substep reach 4 cells while light travels 1, and at
-  ĉt = 2 a sixth of the ionised volume lies outside the light cone.
-- **Later:** nothing is ionised outside the light cone, but the front is
-  thicker: 1.45× (M1) and 1.3× (OTVET) as many cells with 0.3 < x_HII < 0.7
-  at ĉt = 30. The
-  photons are absorbed across that thicker front, so fewer of them stay in
-  flight.
+Two things put the moment photons into neutral gas early.
+- **The injection order** (§5a). With inject 0 the source's photons are
+  transported 4 subcycles before anything absorbs them. The source cell
+  itself barely absorbs, and the photons start spread over the
+  neighbouring cells. Injecting after the transport removes about half of
+  the early lead.
+- **The first-order scheme's numerical diffusion** (upwind at C = 1/4:
+  σ ≈ 2 cells after 6 substeps), which remains with inject 1:
+  - In the first substeps photons move faster than light. The
+    `moment_nsub` = 4 subcycles of a substep reach 4 cells while light
+    travels 1, and at ĉt = 2 a tenth of the ionised volume lies outside
+    the light cone.
+  - Later nothing is ionised outside the light cone, but the front is
+    thicker: about 1.5× as many cells with 0.3 < x_HII < 0.7 at ĉt = 30.
 
-  The excess volume this leaves is a shrinking fraction of the volume as R
-  grows. So the error falls from +61% to 1–2%, and the moment fronts
-  converge to the finite-c solution and to the rays. The photon budget is
-  exact (§2), so the ionised volume is right once the front is resolved.
+The excess volume becomes a smaller fraction of the volume as R grows, and
+the moment fronts converge to the finite-c solution and to the rays. The
+photon budget is exact (§2), so the ionised volume is right once the front
+is resolved.
 
 ![maps](figures/rt_methods_maps.png)
 
@@ -204,10 +217,10 @@ Maps of x_HII in the plane through the sources, after 15 steps:
   mean density, 4 cells away. This is a point-source test of our own, not
   Iliev et al. 2006 Test 3 (§5).
   - Every method casts a shadow. The mean x_HII on the axis behind the
-    clump is 0.000 for the rays (with or without the rotation), 0.054 for
-    M1 and 0.005 for OTVET.
+    clump is 0.000 for the rays (with or without the rotation), 0.044 for
+    M1 and 0.004 for OTVET (inject 0: 0.054 and 0.005).
   - At the same distance beside the clump it is 0.40 (rays), 0.50 (fixed
-    frame), 0.36 (M1) and 0.29 (OTVET). These cells are at the edge of the
+    frame), 0.34 (M1) and 0.25 (OTVET). These cells are at the edge of the
     front, 9–12 cells from the source, so the number mostly measures how
     the front's edge falls on them.
   - OTVET's radial tensor keeps the shadow sharpest. M1 fills it in a little:
@@ -219,33 +232,36 @@ Maps of x_HII in the plane through the sources, after 15 steps:
     OTVET.
 - **Two sources** 12 cells apart. The width of the ionised region through
   the midpoint is 7 cells for the rays, M1 and OTVET (5 with the fixed
-  frame). Through a source it is 13, 13 and 15 cells. The classic M1
-  failure, where crossing beams merge, needs beams that cross; two
-  isotropic point sources do not provoke it at this resolution.
+  frame), and through a source 13 cells for all three (OTVET 15 with
+  inject 0). The classic M1 failure, where crossing beams merge, needs
+  beams that cross; two isotropic point sources do not provoke it at this
+  resolution.
 - **16 sources in a lognormal field** (`tests/problems/lognormal_16src`,
   60 steps):
 
 | step | x_HII (volume): rays / M1 / OTVET | x_HII (mass) | partly ionised cells | cells off by > 0.1 vs rays: fixed frame / M1 / OTVET |
 |---|---|---|---|---|
-| 10 | 0.014 / 0.054 / 0.053 | 0.068 / 0.087 / 0.088 | 2% / 7% / 7% | 0.7% / 8% / 7% |
-| 20 | 0.078 / 0.139 / 0.132 | 0.131 / 0.160 / 0.159 | 5% / 13% / 12% | 2.6% / 13% / 12% |
-| 40 | 0.266 / 0.340 / 0.321 | 0.259 / 0.300 / 0.293 | 11% / 20% / 20% | 5.1% / 19% / 17% |
-| 60 | 0.468 / 0.545 / 0.520 | 0.391 / 0.438 / 0.427 | 15% / 24% / 24% | 6.2% / 23% / 20% |
+| 10 | 0.014 / 0.029 / 0.029 | 0.068 / 0.072 / 0.071 | 2% / 5% / 5% | 0.7% / 4.0% / 4.0% |
+| 20 | 0.078 / 0.098 / 0.095 | 0.131 / 0.141 / 0.140 | 5% / 10% / 10% | 2.6% / 7.1% / 7.0% |
+| 40 | 0.266 / 0.290 / 0.281 | 0.259 / 0.274 / 0.270 | 11% / 19% / 19% | 5.1% / 14% / 14% |
+| 60 | 0.468 / 0.496 / 0.482 | 0.391 / 0.410 / 0.404 | 15% / 24% / 23% | 6.2% / 19% / 18% |
 
   The frame rotation leaves the global fractions unchanged (the fixed frame
   gives x_HII = 0.468 at step 60 as well), but moves 6% of the cells by more
   than 0.1. That is the rays' own sampling noise, the floor against which
-  the moment methods' 20–23% should be read.
+  the moment methods' 18–19% should be read.
 
   The moment methods start ahead, while the fronts are a few cells across,
-  as in the I-front test. Later they are 16% (M1) and 11% (OTVET) above the
-  rays in x_HII at step 60. With B17 and P11 off they were 8% and 5% above:
-  the two fixes slow the rays more than the moments.
-  The moment fronts are thicker: 1.6× as many partly ionised cells. The
-  median temperature at step 60 is 13 900 K for the rays, 16 000 K for M1
-  and 15 600 K for OTVET. With x_HII ≈ 0.5 the median sits at the edge of
-  the ionised gas and follows the ionised fraction. OTVET is the closer of
-  the two to the rays everywhere.
+  as in the I-front test. At step 60 they are 6% (M1) and 3% (OTVET) above
+  the rays in x_HII.
+  - With inject 0 they were 16% and 11% above, with 23% and 20% of the
+    cells off by more than 0.1.
+  - With inject 0 and B17 and P11 off they were 8% and 5% above.
+  - The moment fronts are thicker: 1.6× as many partly ionised cells.
+  - The median temperature at step 60 is 13 900 K for the rays, 15 100 K
+    for M1 and 14 600 K for OTVET. With x_HII ≈ 0.5 the median sits at the
+    edge of the ionised gas and follows the ionised fraction.
+  - OTVET is the closer of the two to the rays everywhere.
 
 **Cost** (the box, 60 steps of one RT substep each, whole run including
 output; 4-core container; measured 2026-10-10, before B17 and P11 and with
@@ -312,9 +328,19 @@ absorbed in the cell that emitted them before they move on (128³,
 - OTVET's HI hardly changes: its tensor already points away from the
   source, and its neutral source cells at z ≈ 6.9 ionised before overlap.
 
-The default stays 0 (ground rule: defaults keep the first implementation);
-`make_production.py --moment-inject` writes 1 by default. The 512³ M1 and
-OTVET runs of `docs/rt_methods_512.md` used 0; they are not rerun.
+**The default is 1 since 2026-11-10** (user decision, `docs/PLAN.md`). Until
+then it was 0, the first implementation; `make_production.py` wrote 1, and
+the 512³ suite (`docs/rt_suite_512.md`) and the plane-parallel C1/T4 runs
+used it. The moment RT is new code, so ground rule 3 (defaults keep the
+original) does not bind it, and `moment_inject = 0` stays available.
+- The 512³ M1 and OTVET runs of `docs/rt_methods_512.md`, the 256³ runs
+  of §6, and the `rt_driver` comparisons of §4 before 2026-11-10 used 0.
+  They are not rerun.
+- Checkpoints do not store the key. A run started with the old default
+  and restarted from its `params.txt` with the new binary changes order at
+  the restart unless `moment_inject = 0` is added.
+- `make_production.py` now writes the key explicitly
+  (`--moment-inject 0|1`, default 1).
 
 ## 5. Caveats and open questions
 

diff --git a/docs/REVIEW_GUIDE.md b/docs/REVIEW_GUIDE.md
@@ -49,7 +49,7 @@ flag's name before changing it.
 | Method | Selected by | Code | Documents | Tests |
 |---|---|---|---|---|
 | adaptive rays (the original) | `rt_method = rays` (default) | `src/rt_tools.cpp`, `src/ray_tracing.cpp`, `include/radray/rays.hpp`, `kernels/ray_kernels.hpp`, `kernels/rt_cell.hpp` | `port_notes.md`, `validation_spec.md`, `parallel.md`, `rt_multicell.md` | `ref_*`, `ref_legacy0_*`, `ref_fixed_*` (byte comparison with the Fortran outputs), `rays`, `end_to_end*`, `thread_rt_*`, `photon_conserve`, `ifront_rsla*` |
-| M1 | `rt_method = m1` | `src/rt_moments.cpp`, `kernels/moment_cell.hpp` | `rt_moments.md` | `moments`, `thread_rt_m1_lognormal_16src`, `restart_smoke_m1_inject`, `gamma_avg_m1` |
+| M1 | `rt_method = m1` | `src/rt_moments.cpp`, `kernels/moment_cell.hpp` | `rt_moments.md` | `moments`, `thread_rt_m1_lognormal_16src`, `restart_smoke_m1_inject0`, `gamma_avg_m1` |
 | OTVET, thin tensor | `rt_method = otvet` | `compute_otvet_tensor` in `rt_moments.cpp`, `src/rt_moments_fft.cpp` | `rt_moments.md` | `otvet_fft_threads_*`, `thread_rt_otvet_*`, `tensor_dump_otvet` |
 | OTVET closures: split, screen, cone | `otvet_split = 1`, `otvet_closure = screen \| cone` | `src/otvet_closure.cpp`, `include/radray/otvet_closure.hpp` | `otvet_closure.md` sections 4, 5 | `restart_smoke_otvet_split`, `restart_smoke_otvet_cone`, `tensor_dump_otvet_cone`, `tensor_dump_otvet_split`, `thread_rt_otvet_{split,screen,cone}_*` |
 | OTVET with an isotropic background | `otvet_background = ga01` | PR #32 (branch `otvet-background`) | `otvet_background.md` on that branch | on that branch |

diff --git a/docs/PLAN.md b/docs/PLAN.md
@@ -2019,3 +2019,15 @@ report `docs/taueff_21cmfast.md`). Decisions in the prompt, followed:
   case-B set (rays, thin, split, cone, ga01; ≈ 8 node-hours in all) since
   the October case-A suite predates P11 under `legacy_physics = 0`
   (`docs/otvet_background.md` §9).
+
+## `moment_inject = 1` the default (2026-11-10)
+
+* **User decision:** the moment RT injects a substep's source and
+  recombination photons after the transport by default
+  (`moment_inject = 1`, `docs/rt_moments.md` §5a). Production already used
+  it (`make_production.py`). The moment RT is new code, not the
+  original, so the ground rule that defaults keep the original does not
+  bind it; `moment_inject = 0` keeps the first implementation.
+* The tests that covered 1 explicitly now cover 0
+  (`restart_smoke_m1_inject0`, the AMReX cases `m1inj0`, `m1recombinj0`);
+  every other moment test runs with the new default.
